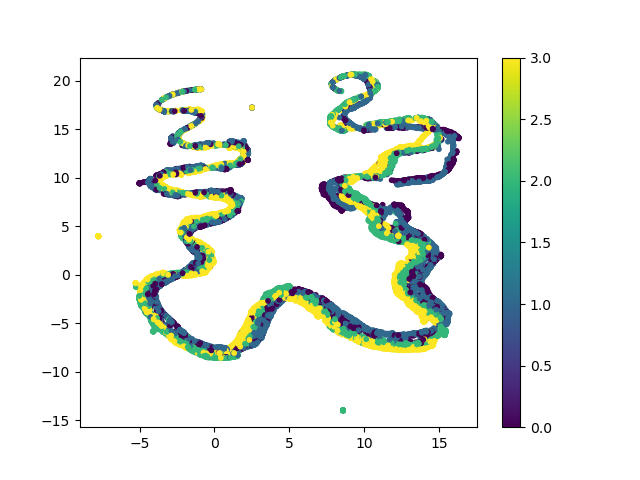
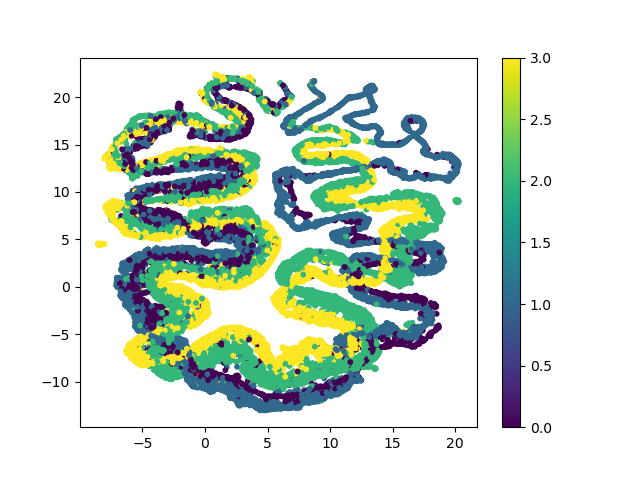
Improved training model

diff --git a/recognition/GCN-Project/predict.py b/recognition/GCN-Project/predict.py
@@ -22,7 +22,7 @@ def show_graph(graph, model):
     embeddings = embeddings.numpy()
 
     # Use UMAP to reduce the dimensionality
-    umap_embeddings = umap.UMAP(n_neighbors=15, min_dist=0.1, n_components=2).fit_transform(embeddings)
+    umap_embeddings = umap.UMAP(n_neighbors=15, min_dist=0.5, n_components=2).fit_transform(embeddings)
     true_labels = graph.ndata['Target'].numpy()
 
     # Create a UMAP embeddings plot with ground truth labels in colours
@@ -41,4 +41,4 @@ epoch: epoch number the model is on
 loss: current loss function of the model
 '''
 def print_results(accuracy, epoch, loss):
-    print(f'Epoch {epoch}: Loss {loss.item()}, Test Accuracy {accuracy.item()}')
+    print(f'Epoch {(epoch)}: Loss {loss.item()}, Test Accuracy {accuracy.item()}')

diff --git a/recognition/GCN-Project/train.py b/recognition/GCN-Project/train.py
@@ -64,10 +64,10 @@ def start():
     graph, train_mask, test_mask, num_features = dataset.load_data()
 
     # Initialize the GCN model
-    model = modules.GCN(input_feats=128, hidden_size=64, num_classes=num_features, num_layers=2)
+    model = modules.GCN(input_feats=128, hidden_size=64, num_classes=num_features, num_layers=4)
 
     #Train the model
-    train.train_model(graph, train_mask, test_mask, model, 100, 0.01)
+    train.train_model(graph, train_mask, test_mask, model, 60, 0.02)
 
 if __name__ == "__main__":
     start()

diff --git a/recognition/GCN-Project/README.md b/recognition/GCN-Project/README.md
@@ -6,6 +6,14 @@ After the data is loaded in from the [Partially processed dataset](https://graph
 
 A test/training split of 0.8/0.2 was chosen as it allows the model to have an adequete amount of training and testing data. Considering the size of the datasets, there aren't any concerns over there being an insufficient amount of testing data or training data with this split.
 
+The data is read from three npy files gotten from the [Partially processed dataset](https://graphmining.ai/datasets/ptg/facebook.npz) stored under the facebook directory found in the same directory as the code, the specific directories are as follows:
+
+```
+edges_dir = 'facebook/edges.npy'
+features_dir = 'facebook/features.npy'
+target_dir = 'facebook/target.npy'
+```
+
 ## Training
 This model uses a Graph Convolution Network (GCN). GCN's are good for interpreting graph-structured data, and interprets the dataset as a series of nodes (entities) and edges (relationships) between nodes. Nodes can be associated with features (acts as descriptors), which in our problem is represented by a 128 dim vector.
 
